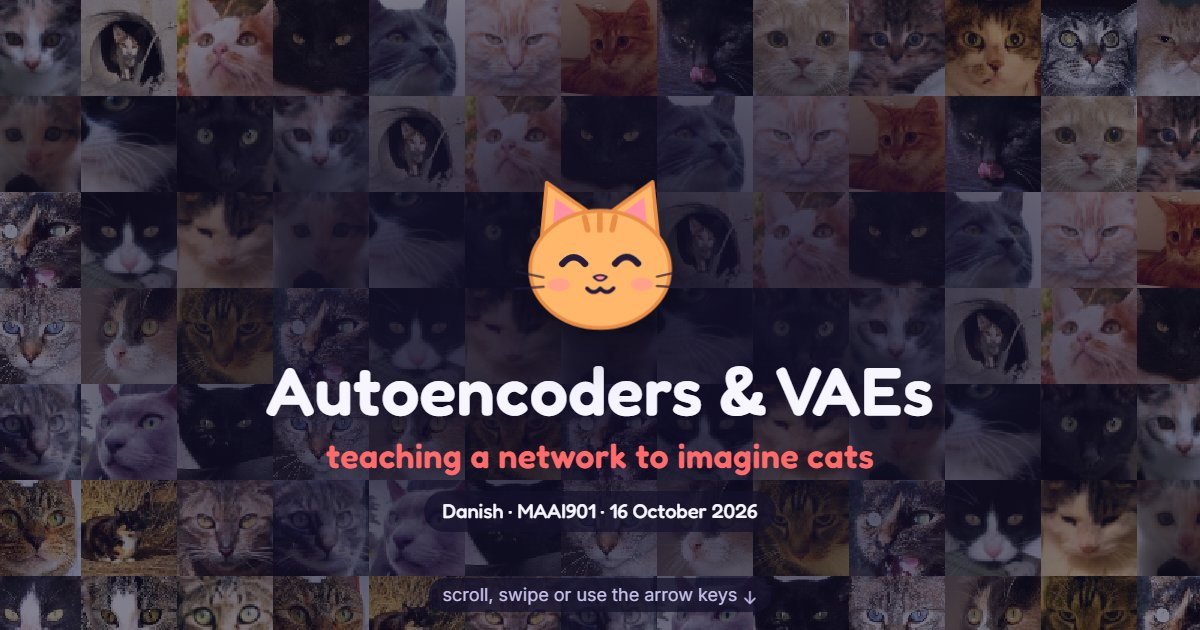
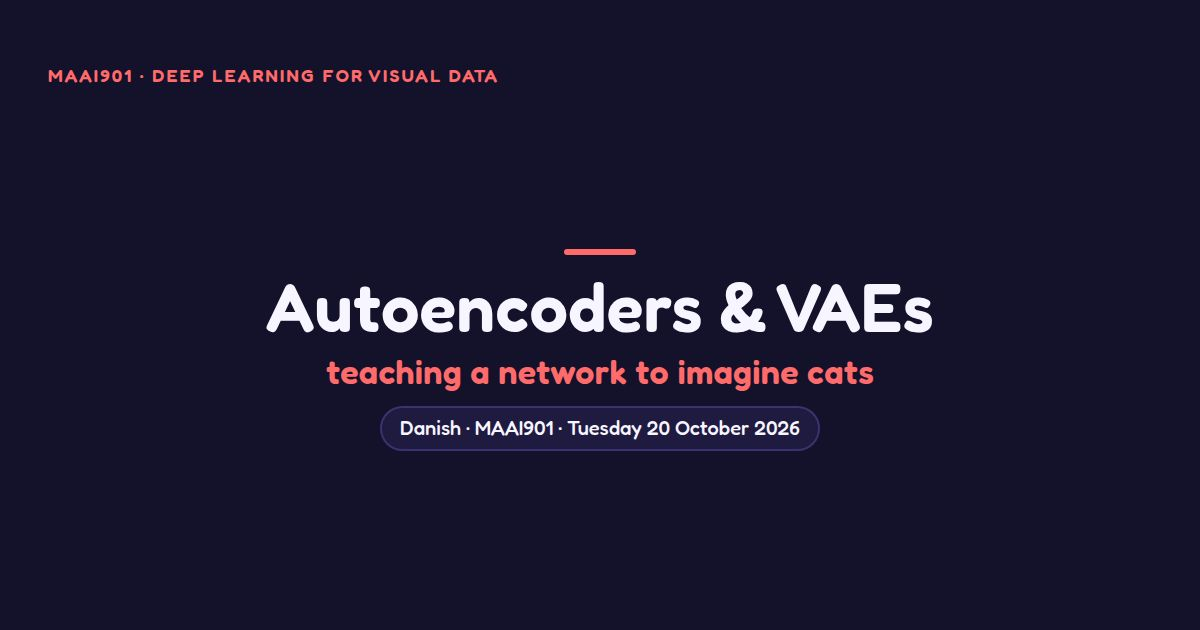
Refresh the link preview so it matches the cat-free title slide.
The old preview still showed the mascot. The alt text now matches the date and the topic line.

diff --git a/site/index.html b/site/index.html
@@ -15,7 +15,7 @@
     <meta property="og:image" content="https://autoencoders.danishali.dev/img/og.jpg" />
     <meta property="og:image:width" content="1200" />
     <meta property="og:image:height" content="630" />
-    <meta property="og:image:alt" content="The cartoon cat mascot beside the title: Autoencoders and VAEs, teaching a network to imagine cats" />
+    <meta property="og:image:alt" content="Title slide: Autoencoders and VAEs, teaching a network to imagine cats. MAAI901, Tuesday 20 October 2026." />
     <meta name="twitter:card" content="summary_large_image" />
     <link rel="icon" href="img/favicon.svg" type="image/svg+xml" />
     <link rel="stylesheet" href="css/fonts.css" />

diff --git a/site/sw.js b/site/sw.js
@@ -11,7 +11,7 @@
 // VERSION is rewritten by tools/stamp_site.py whenever any site file changes (models and data
 // have a content hash in their names, so a hash of data/files.json covers them).
 
-const VERSION = "6cb0ec9e6977";
+const VERSION = "dfbf24fee59b";
 const CACHE = `cats-${VERSION}`;
 const BIG = /^(models|data)\/|\.wasm$/;
 
